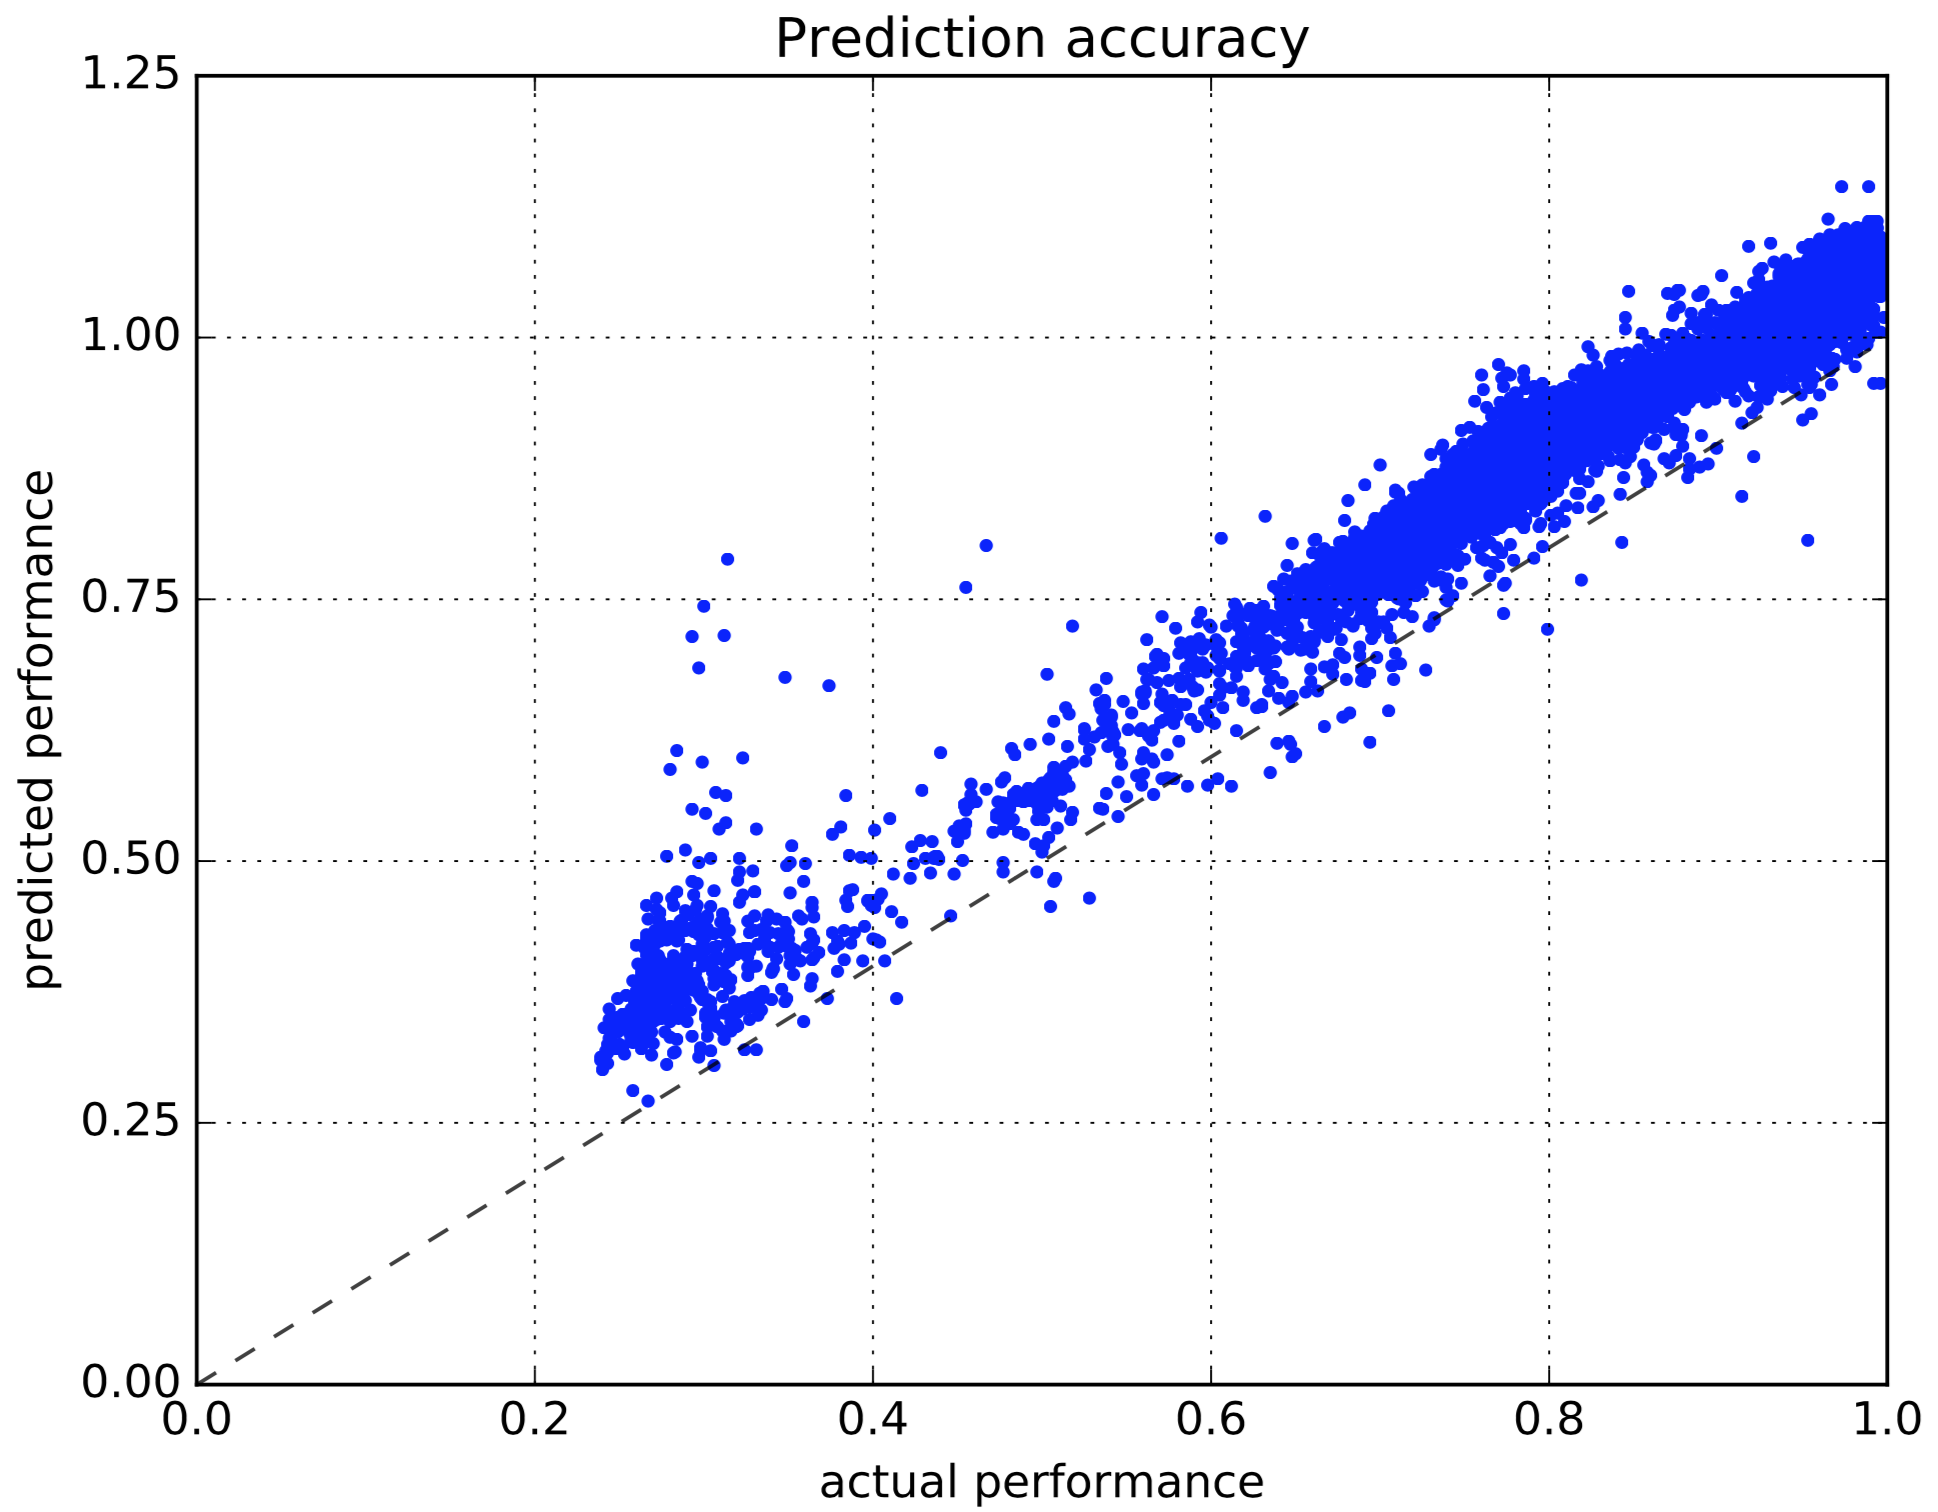
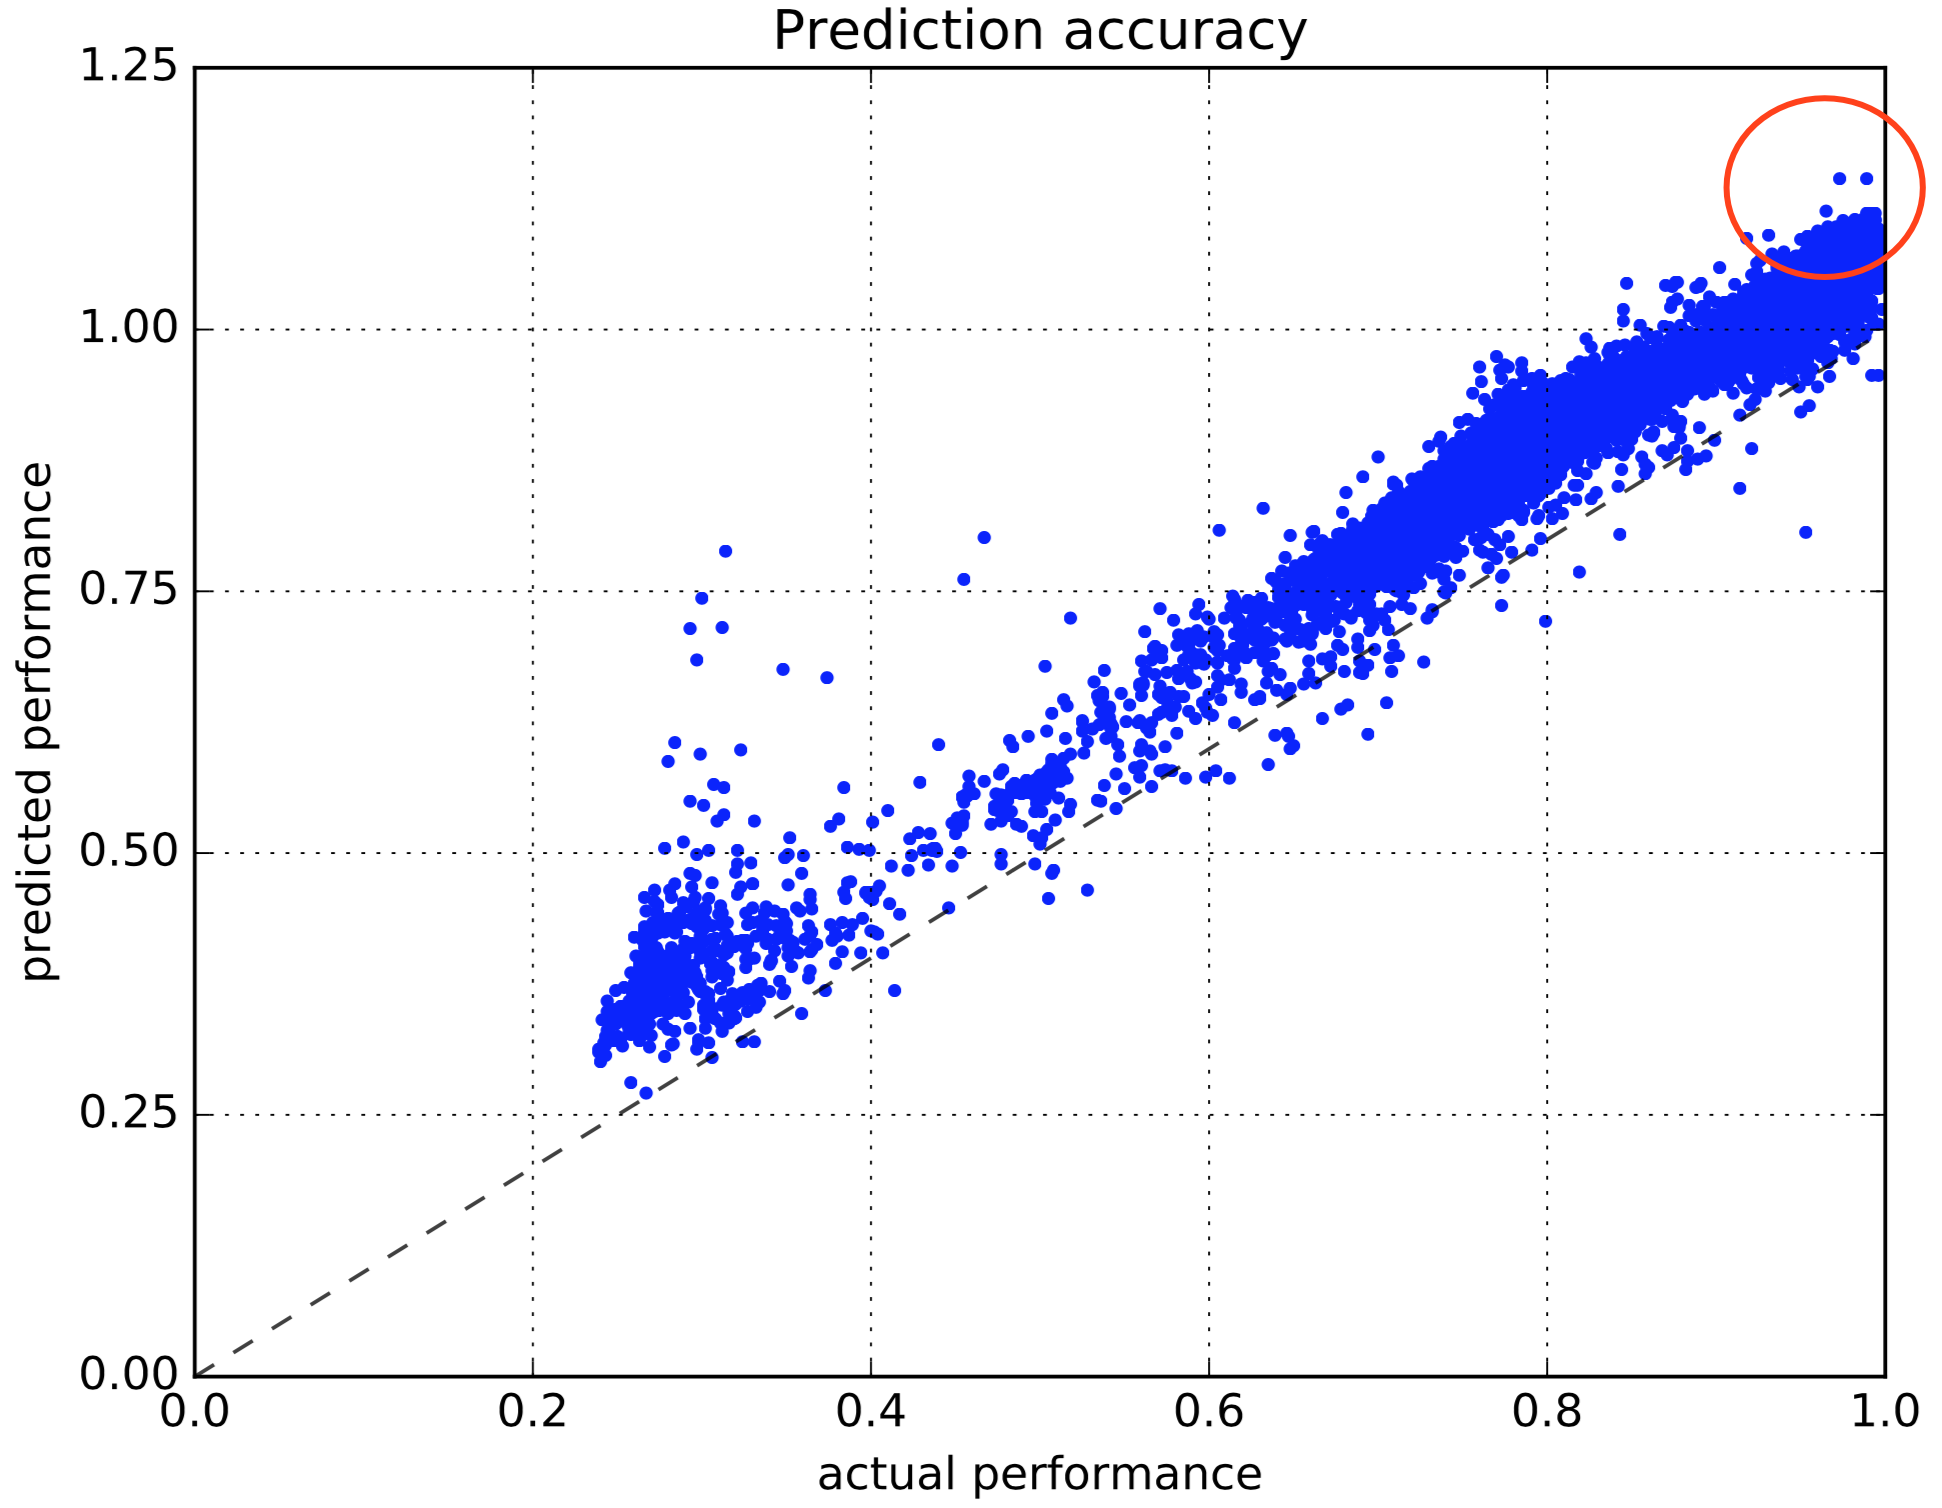
finished one part of evalation

diff --git a/sections/evaluation.tex b/sections/evaluation.tex
@@ -3,51 +3,87 @@
 
   \subsection{Exhaustive search vs \atl orthogonal search}
   \label{sec:exhaustiveVSorthogonal}
-    In this section, we compare the result of \atl orthogonal search with the best of exhaustive
-    search. The search time, generated code performance, and selected parameters are listed in Figure
-    \ref{fig:exhaustiveVsorthogonal}.\par
-    Except for the two ARM processors, it takes around one to three minutes for ATLAS orthogonal search 
-    to generate its best code. Considering that we only search for single precision, real number general 
-    matrix multiplication, we haven't run double precision, complext number or some other benchmarks 
-    like transpose matrix kernel, matrix vector kernel, big matrix kernel, rank-1 matrix kernel etc, installing 
-    ATLAS may take hours to finish. The orthogonal search is still too slow to end user.\par
-    Column \textit{exhaustive best} and \textit{ATLAS best} list the FMLOPS performance of generated code from
-    both search strategy. The ratio of ATLAS over exhaustive is in the last column. On 8 platforms, 
-    ATLAS is able to generate code with >90\% of best performance. Three platforms has only around 60\% of 
-    best performance. The two parameter columns list the selected paraeters in the order of $(NB, MU, NU, KU)$.\par
-    Note for the two MAC platform that, the two middle parameters (MU, NU) are so large that it exceeds 
-    the register requirement of \[ MU*NU + MU + NU + LS < NR \]. Thus ATLAS orthogonal search is not able 
-    to find it. Currently we do not have a clear explanation to this. One guess is that, the CORE i7 processors
-    have more physical registers than ISA architecture register. The ISA is only able to use or identify 32 registers.
-    However due to register renaming, it can make use of more than 32 registers and the extra registers are not visible 
-    to softwares.\par
-     
-
-
-
   \begin{figure*}[tbhp]
     \centering
     \includegraphics[width=0.9\textwidth]{images/exhaustiveVsorthogonal.png}
     \caption{Searching time comparison between exhaustive search and \atl orthogonal search}
     \label{fig:exhaustiveVsorthogonal}
   \end{figure*}
+  In this section, we compare the result of \atl orthogonal search with the best of exhaustive
+  search. The search time, generated code performance, and selected parameters are listed in Figure
+  \ref{fig:exhaustiveVsorthogonal}.\par
+  Except for the two ARM processors, it takes around one to three minutes for ATLAS orthogonal search
+  to generate its best code. Considering that we only search for single precision, real number general
+  matrix multiplication, we haven't run double precision, complext number or some other benchmarks
+  like transpose matrix kernel, matrix vector kernel, big matrix kernel, rank-1 matrix kernel etc, installing
+  ATLAS may take hours to finish. The orthogonal search is still too slow to end user.\par
+  Column \textit{exhaustive best} and \textit{ATLAS best} list the FMLOPS performance of generated code from
+  both search strategy. The ratio of ATLAS over exhaustive is in the last column. On 8 platforms,
+  ATLAS is able to generate code with >90\% of best performance. Three platforms has only around 60\% of
+  best performance. The two parameter columns list the selected paraeters in the order of $(NB, MU, NU, KU)$.\par
+  Note for the two MAC platform that, the two middle parameters (MU, NU) are so large that it exceeds
+  the register requirement of \[ MU*NU + MU + NU + LS < NR \]. Thus ATLAS orthogonal search is not able
+  to find it. Currently we do not have a clear explanation to this. One guess is that, the CORE i7 processors
+  have more physical registers than ISA architecture register. The ISA is only able to use or identify 32 registers.
+  However due to register renaming, it can make use of more than 32 registers and the extra registers are not visible
+  to softwares.\par
 
   \subsection{GEMM performance model}
   \label{sec:GEMMperf}
-  \begin{figure}[tbhp]
+  This section discuss whether it is easy to build a model of \gem performance
+  given platform information and a knob setting. Intuitively, we evaluate
+  whether the \gem performance is predictable. In Fig.\ref{fig:inertia_perf},
+  we shows the performance prediction accuracy on platform inertia using a model
+  trained by M5 on the other 11 platforms. Each point represent one knob
+  setting. This figure shows the comparison between the normalized actual
+  performance and the predicted performance. There are two views to evaluate
+  this figure. The first view is to see the distance between the points to the
+  $y=x$ line. The distance evaluates how accurate the model is.
+
+  Another point of
+  view is to focus on the few highest data points, which are the points in the
+  red oval in Fig.\ref{fig:inertia_perf}. These points represent the highest
+  predicted performance, which will be selected as the candidate knob settings
+  in \atl evaluation. The corresponding x axis value is the actual performance
+  number for this knob setting. Intuitively, the lefter the point is, the
+  better the prediction is, we want high prediction to indicate high actual
+  performance. Note that only the knob settings with high performance are
+  interested, so the prediction accuracy for low points doesn't matter much in
+  this case as soon as high prediction point are left enough.
+
+  Inertia is doing well in both of the views, while platforms like arma7 is not
+  because it's really hard to use data collected from 10 Intel processors and 1
+  ARM processor to predict another ARM processor's performance, as shown in
+  Fig.\ref{fig:arm_perf}. The overall performance prediction, shown in
+  Fig.\ref{fig:overall_perf}, is generated by randomly selecting 80\% and 20 \%
+  of the data set formed by 12 platforms as training data and testing data
+  respectively. It shows the overall difficulty of modeling \gem performance
+  is not hard.
+
+  \begin{figure}[bhp]
     \centering
-    \includegraphics[width=0.4\textwidth]{images/overall_model.png}
-    \caption{Overall performance model}
-    \label{fig:overall_model}
+    \begin{subfigure}[b]{1.0\linewidth}
+      \centering
+      \includegraphics[width=0.8\textwidth]{images/inertia_perf.png}
+      \caption{Inertia performance prediction}
+      \label{fig:inertia_perf}
+    \end{subfigure}
+    \begin{subfigure}[b]{1.0\linewidth}
+      \centering
+      \includegraphics[width=0.8\textwidth]{images/arm_perf.png}
+      \caption{Arma7 performance prediction}
+      \label{fig:arm_perf}
+    \end{subfigure}
+    \begin{subfigure}[b]{1.0\linewidth}
+      \centering
+      \includegraphics[width=0.8\textwidth]{images/overall_model.png}
+      \caption{Overall performance prediction}
+      \label{fig:overall_pref}
+    \end{subfigure}
   \end{figure}
 
-  \begin{figure}[tbhp]
-    \centering
-    \includegraphics[width=0.4\textwidth]{images/inertia_perf.png}
-    \caption{Inertia performance accuracy}
-    \label{fig:inertia_perf}
-  \end{figure}
 
+  
   \subsection{Capri-based ATLAS searching time}
   \label{sec:capri_atlas_searching}
 

diff --git a/sections/experiment.tex b/sections/experiment.tex
@@ -1,30 +1,5 @@
 \section{Experiment Methodology}
 \label{sec:experiment}
-
-In the experiment, we only consider single precision, real number matrix multiplication. 
-\par
-We implement an exhaustive search on ATLAS and the space of each parameter are chosen as follows.\par
-$NB$: Multiple of 4 in range $[20, 80]$\par
-$MU$,$NU$: $\{1, 2, 3, 4, 5, 6, 8, 10, 12\}$ for 16 registers,
-		\{4, 6, 8, 10, 12, 14, 16, 24, 32\} for 32 registers\par
-$KU$: $\{1, 2, 3, 4, 5, 6, 8, 10, 12, NB\}$\par
-The exhaustive search tries every possible combination of them. 
-On a typical platform as we mentioned in Section \ref{sec:atlas_intro}, it takes more than 10 hours to finish 
-the search on 12960 data points.\par
-
-We evaluate the result on 12 platform, as shown in Figure \ref{fig:platforms}. \textit{arma7} and \textit{arma15}
-are two ARM Cortex processors on an ODROID board. 
-\textit{ypei\_mac} and \textit{michael\_mac} are two personal MAC laptops 
-with Intel CORE i7 processors. The rest eight platforms are machines of ICES or CS department. They are all intel processors.\par
-
-Note that the third column \textit{architecture} is a category provided by ATLAS configuration. 
-ATLAS identifies this information but does not use it in the orthogonal search procedure. Instead, after automatically 
-generating high performance code, ATLAS compares it with existing hand-tuned unleashed codes which has been included in the system, 
-and pick the best. Those hand-written codes are categorized according to this \textit{architecture}. 
-We adopt it as one of our training set grouping metric in the experiment.\par
-
-
-
 \begin{figure*}[tbhp]
   \centering
   \includegraphics[width=0.9\textwidth]{images/platforms.png}
@@ -32,15 +7,35 @@ We adopt it as one of our training set grouping metric in the experiment.\par
   \label{fig:platforms}
 \end{figure*}
 
+In the experiment, we only consider single precision, real number matrix multiplication.
+\par
+We implement an exhaustive search on ATLAS and the space of each parameter are chosen as follows.\par
+$NB$: Multiple of 4 in range $[20, 80]$\par
+$MU$,$NU$: $\{1, 2, 3, 4, 5, 6, 8, 10, 12\}$ for 16 registers,
+		\{4, 6, 8, 10, 12, 14, 16, 24, 32\} for 32 registers\par
+$KU$: $\{1, 2, 3, 4, 5, 6, 8, 10, 12, NB\}$\par
+The exhaustive search tries every possible combination of them.
+On a typical platform as we mentioned in Section \ref{sec:atlas_intro}, it takes more than 10 hours to finish
+the search on 12960 data points.\par
+
+We evaluate the result on 12 platform, as shown in Figure \ref{fig:platforms}. \textit{arma7} and \textit{arma15}
+are two ARM Cortex processors on an ODROID board.
+\textit{ypei\_mac} and \textit{michael\_mac} are two personal MAC laptops
+with Intel CORE i7 processors. The rest eight platforms are machines of ICES or CS department. They are all intel processors.\par
+
+Note that the third column \textit{architecture} is a category provided by ATLAS configuration.
+ATLAS identifies this information but does not use it in the orthogonal search procedure. Instead, after automatically
+generating high performance code, ATLAS compares it with existing hand-tuned unleashed codes which has been included in the system,
+and pick the best. Those hand-written codes are categorized according to this \textit{architecture}.
+We adopt it as one of our training set grouping metric in the experiment.\par
+
 
 In the experiment, we train the model offline from a training set of platforms, and get the top ten knob settings generated from the model.
-We evaluate these ten knob settings on another target platform and compare it with the best of exhaustive search. We select 
-three categories of training sets. 1) ALL except the target. 2) "Corei" architecture group. This group is all the platforms 
+We evaluate these ten knob settings on another target platform and compare it with the best of exhaustive search. We select
+three categories of training sets. 1) ALL except the target. 2) "Corei" architecture group. This group is all the platforms
 with intel processors except \textit{ypei\_mac} since ATLAS is unable to identify its architecture. 3) Specific architecture group.
-We categorize the platform specifically according to the architecture. Each architecture corresponds to a group and we only use data 
+We categorize the platform specifically according to the architecture. Each architecture corresponds to a group and we only use data
 from the exact same architecture to train. \par
 
-We picked 3 different models M5, bagging predictor and extremely randomized tree from Capri. We evaluate each training model on each training 
-set individually on two metrics: throughput (MFLOPS) of 
-
-
+We picked 3 different models M5, bagging predictor and extremely randomized tree from Capri. We evaluate each training model on each training
+set individually on two metrics: throughput (MFLOPS) of
